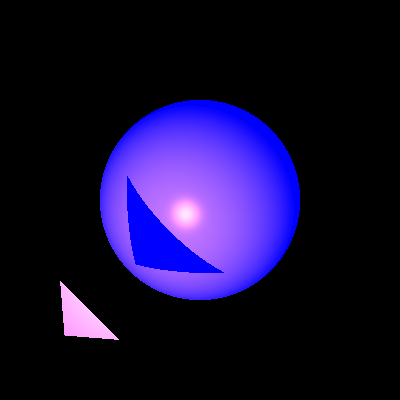
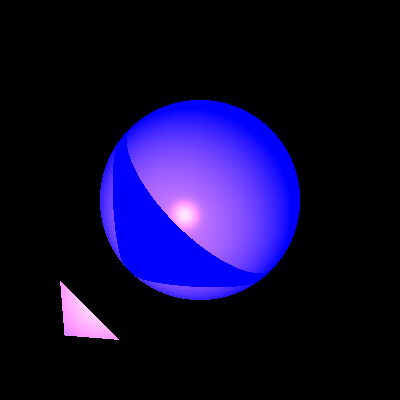
exercise 7 - seif 7

diff --git a/tests/renderer/ShadowTests.java b/tests/renderer/ShadowTests.java
@@ -108,7 +108,7 @@ public class ShadowTests {
                         .setMaterial(new Material().setKd(0.5).setKs(0.5).setShininess(30)) //
         );
         scene.lights.add( //
-                new SpotLight(new Color(400, 240, 0), new Point3D(-100, -100, 175), new Vector(1, 1, -3)) //
+                new SpotLight(new Color(400, 240, 0), new Point3D(-78, -78, 80), new Vector(1, 1, -3)) //
                         .setKl(1E-5).setKq(1.5E-7));
 
         Render render = new Render(). //
@@ -134,7 +134,7 @@ public class ShadowTests {
                         .setMaterial(new Material().setKd(0.5).setKs(0.5).setShininess(30)) //
         );
         scene.lights.add( //
-                new SpotLight(new Color(400, 240, 0), new Point3D(-100, -100, 140), new Vector(1, 1, -3)) //
+                new SpotLight(new Color(400, 240, 0), new Point3D(-90, -90, 120), new Vector(1, 1, -3)) //
                         .setKl(1E-5).setKq(1.5E-7));
 
         Render render = new Render(). //
@@ -174,6 +174,5 @@ public class ShadowTests {
         render.renderImage();
         render.writeToImage();
     }
-
 }
 
